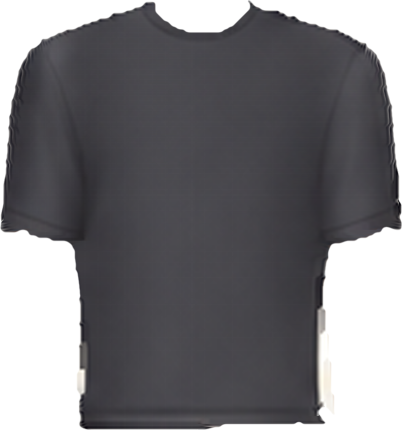
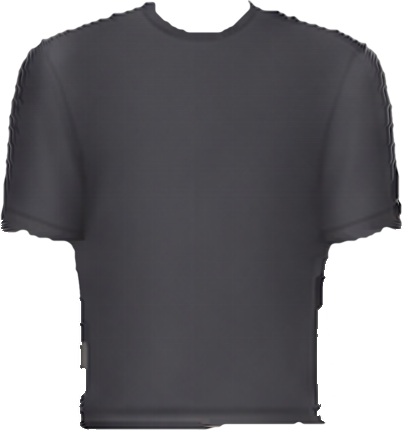
Hauts des garçons : plus d'ancien haut dessous, petits jours nettoyés
Claude-Session: https://claude.ai/code/session_01RffJDTtPaeahFdiXkdY2ya

Changed region(s): [[0.7761, 0.6953, 0.8358, 0.9674], [0.1791, 0.786, 0.2388, 0.9372], [0.209, 0.9977, 0.2388, 1.0]]

diff --git a/js/app.js b/js/app.js
@@ -849,13 +849,16 @@ function topSVG(G,T,s,p,K){
  const hemBand=(y,col,ext)=>{const x=sideX(G,y)+ext;return `<path d="M${fx(200-x)},${y-13} L${fx(200+x)},${y-13} L${fx(200+x)},${y} L${fx(200-x)},${y}Z" fill="${col}"/><path d="M${fx(200-x)},${y-13} L${fx(200+x)},${y-13} L${fx(200+x)},${y} L${fx(200-x)},${y}Z" fill="url(#${p}rib)"/>`};
 /* hauts des garçons copiés sur la planche corrigée de Prescillia (js/hauts-garcons-art.js) : image posée sur le corps,
    les bras et les mains restent ceux du jeu ; autre couleur → l'image est reteinte d'après sa clarté */
- {const hg=!HG_OFF&&!(s.jacket&&JK[s.jacket])&&hgArt(s);if(hg){const [x,y,w,h,l0,lm,l1]=hg.A,G0=hgG0(),kx=(sideX(G,330)+.001)/(sideX(G0,330)+.001),cc=s.topColor||hg.A[8],same=!hg.tint,
+ {const hg=!HG_OFF&&hgArt(s);if(hg){const [x,y,w,h,l0,lm,l1]=hg.A,G0=hgG0(),kx=(sideX(G,330)+.001)/(sideX(G0,330)+.001),cc=s.topColor||hg.A[8],same=!hg.tint,
   tab=[[],[],[]];if(!same){const dk=shade(cc,-.62),lt=shade(cc,lum(cc)>.75?.0:.32);for(let i=0;i<16;i++){const v=i/15,c2=v<=lm?mix(dk,cc,clamp((v-l0)/Math.max(.01,lm-l0),0,1)):mix(cc,lt,clamp((v-lm)/Math.max(.01,l1-lm),0,1));rgb(c2).forEach((q,j)=>tab[j].push((q/255).toFixed(3)))}}
   const f='hauts/'+hg.k,T_=same?null:hairTint(f,cc,tab),fid=p+'hgf';
   /* dessous : le haut dessiné par le jeu (il épouse le corps), dessus : le haut de la planche */
-  HG_OFF=1;let vec='';try{vec=['gdeb','gnageur'].includes(s.top)?arms():topSVG(G,T,s,p,K)}finally{HG_OFF=0}/* débardeurs : pas de dessous (la peau se voit autour, comme sur la planche) */
+  let vec=arms();/* plus d'ancien haut dessous : le nouveau haut le remplace complètement */
+  /* seuls les petits jours aux épaules (entre le col et l'épaule) sont bouchés, d'une teinte unie identique au haut : aucun ancien détail visible */
+  if(!['gdeb','gnageur'].includes(s.top)){HG_OFF=1;let sil='';try{sil=topSVG(G,T,{...s,jacket:'aucune'},p+'u',K)}finally{HG_OFF=0}
+   const uid=p+'hgu',mc=same?hg.A[8]:cc;vec+=`<defs><filter id="${uid}f" color-interpolation-filters="sRGB"><feFlood flood-color="${mc}"/><feComposite in2="SourceAlpha" operator="in"/></filter><clipPath id="${uid}c"><rect x="0" y="0" width="400" height="${fx(y+h*.22)}"/><rect x="${fx(200-sideX(G,330)-1)}" y="0" width="${fx(2*sideX(G,330)+2)}" height="${fx(y+h*.95)}"/></clipPath></defs><g clip-path="url(#${uid}c)"><g filter="url(#${uid}f)">${sil}</g></g>`}
   return vec+(same||T_?'':`<defs><filter id="${fid}" color-interpolation-filters="sRGB"><feColorMatrix type="matrix" values=".299 .587 .114 0 0 .299 .587 .114 0 0 .299 .587 .114 0 0 0 0 0 1 0"/><feComponentTransfer><feFuncR type="table" tableValues="${tab[0].join(' ')}"/><feFuncG type="table" tableValues="${tab[1].join(' ')}"/><feFuncB type="table" tableValues="${tab[2].join(' ')}"/></feComponentTransfer><feComposite in2="SourceAlpha" operator="in"/></filter></defs>`)
-   +`<g transform="translate(200,0) scale(${fx(kx)},1) translate(-200,0)"><image href="${T_||'assets/'+f+'.png'}" data-hk="${same?'':f+'|'+cc}" x="${x}" y="${y}" width="${w}" height="${h}" preserveAspectRatio="none"${same||T_?'':` filter="url(#${fid})"`}/></g>`+hands()}}
+   +`<g transform="translate(200,0) scale(${fx(kx)},1) translate(-200,0)"><image href="${T_||'assets/'+f+'.png'}" data-hk="${same?'':f+'|'+cc}" x="${x}" y="${y}" width="${w}" height="${h}" preserveAspectRatio="none"${same||T_?'':` filter="url(#${fid})"`}/></g>`+J.torso+J.sleeves+hands()}}
  if(T.vest){
   const U=lum(c)>.5?'#1f2127':'#f4f1ea',VG={...G,SH:G.SH-8};
   o+=`<path d="${torsoD(G,446,3)}" fill="${U}"/>`;
